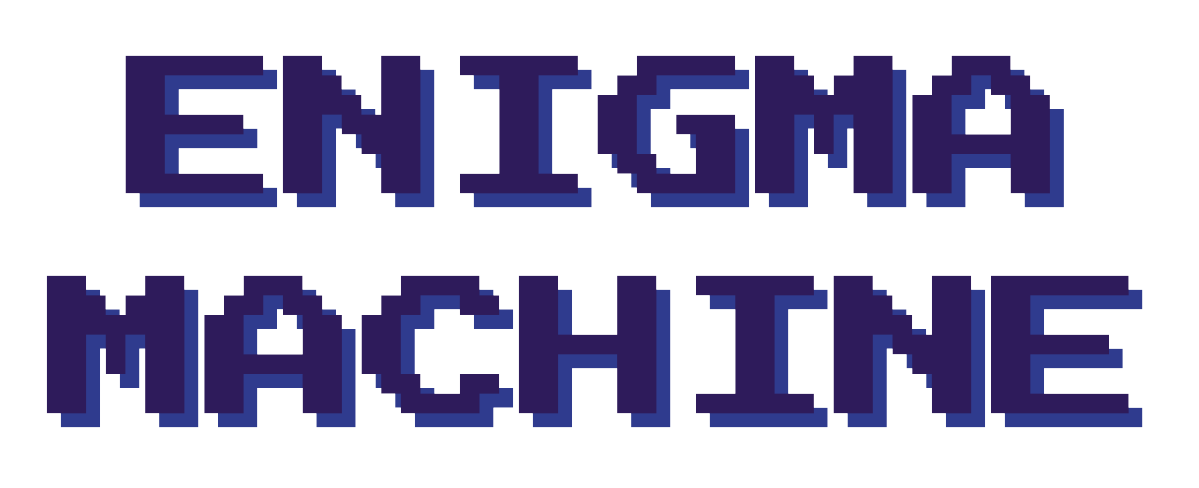
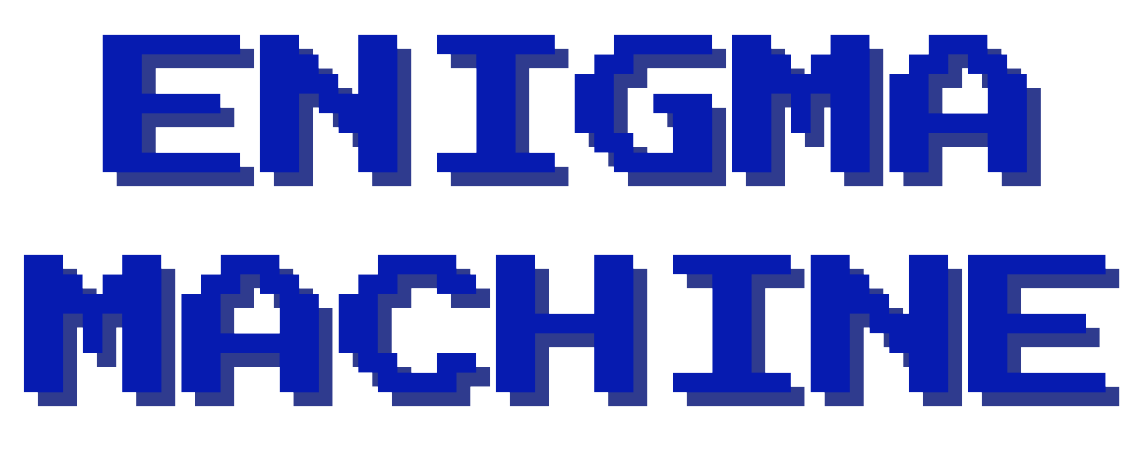
with keyboard

diff --git a/TRYINGSMT/MainWindow.xaml b/TRYINGSMT/MainWindow.xaml
@@ -5,85 +5,126 @@
         xmlns:mc="http://schemas.openxmlformats.org/markup-compatibility/2006"
         xmlns:local="clr-namespace:TRYINGSMT"
         mc:Ignorable="d"
-        Title="MainWindow" Height="1000" Width="800" WindowStartupLocation="CenterScreen">
+        Title="MainWindow" Height="800" Width="1200" WindowStartupLocation="CenterScreen">
     <Window.Background>
         <ImageBrush ImageSource="/MAINbg.png"/>
     </Window.Background>
     <Grid Margin="10,10,0,0">
 
 
-        <Image Margin="62,790,396,-104" Source="/RACELanePIC.png" Stretch="Fill" RenderTransformOrigin="0.5,0.5">
-            <Image.RenderTransform>
-                <TransformGroup>
-                    <ScaleTransform/>
-                    <SkewTransform/>
-                    <RotateTransform Angle="0.138"/>
-                    <TranslateTransform/>
-                </TransformGroup>
-            </Image.RenderTransform>
-        </Image>
+        <Image Margin="751,201,-17,0" Source="/DESIGNforTODOLIST.png" Stretch="Fill"/>
 
 
-        <Image Margin="-6,199,490,592" Source="/backgroundRING.png" Stretch="Fill"/>
+        <Image Margin="321,550,567,25" Source="/backgroundRING.png" Stretch="Fill" Opacity="0.9"/>
 
 
-        <Image Margin="-6,384,490,407" Source="/backgroundRING.png" Stretch="Fill"/>
+        <Image Margin="-1,550,889,25" Source="/backgroundRING.png" Stretch="Fill" Opacity="0.9"/>
 
 
-        <Image Margin="-5,565,489,224" Source="/backgroundRING.png" Stretch="Fill"/>
+        <Image Margin="321,182,567,394" Source="/backgroundRING.png" Stretch="Fill" Opacity="0.9"/>
 
 
-        <Image Margin="-6,751,489,40" Source="/backgroundRING.png" Stretch="Fill"/>
+        <Image Margin="-1,182,889,394" Source="/backgroundRING.png" Stretch="Fill" Opacity="0.9"/>
 
 
-        <Rectangle HorizontalAlignment="Left" Width="10" Height="10" Margin="790,317,0,0" Stroke="Black" VerticalAlignment="Top" Opacity="0"/>
-        <Label Content="Control" HorizontalAlignment="Left" Margin="107,228,0,0" VerticalAlignment="Top" FontFamily="DePixel" FontSize="10"/>
-        <Label Content="Ring 1 (S)" HorizontalAlignment="Left" Margin="104,412,0,0" VerticalAlignment="Top" FontFamily="DePixel" FontSize="10"/>
-        <Label Content="Ring 2 (M)" HorizontalAlignment="Left" Margin="109,590,0,0" VerticalAlignment="Top" FontFamily="DePixel" FontSize="10"/>
-        <Label Content="Ring 3 (H)" HorizontalAlignment="Left" Margin="109,777,0,0" VerticalAlignment="Top" FontFamily="DePixel" FontSize="10"/>
-        <Label x:Name="lblControlRing" Content="Label" HorizontalAlignment="Left" Margin="5,249,0,0" VerticalAlignment="Top" Width="268" FontFamily="DePixel Breit"/>
-        <Label x:Name="lblRing1" Content="Label" HorizontalAlignment="Left" Margin="11,437,0,0" VerticalAlignment="Top" FontFamily="DePixel Breit"/>
-        <Label x:Name="lblRing2" Content="Label" HorizontalAlignment="Left" Margin="11,621,0,0" VerticalAlignment="Top" RenderTransformOrigin="0.447,0.425" FontFamily="DePixel Breit"/>
-        <Label x:Name="lblRing3" Content="Label" HorizontalAlignment="Left" Margin="15,797,0,0" VerticalAlignment="Top" FontFamily="DePixel Breit"/>
+        <Image Margin="0,365,889,211" Source="/backgroundRING.png" Stretch="Fill" Opacity="0.9"/>
+
+
+        <Image Margin="322,365,567,211" Source="/backgroundRING.png" Stretch="Fill" Opacity="0.9"/>
+
+
+        <Rectangle HorizontalAlignment="Left" Width="10" Height="10" Margin="774,331,0,0" Stroke="Black" VerticalAlignment="Top" Opacity="0"/>
+        <Label Content="Control" HorizontalAlignment="Left" Margin="104,209,0,0" VerticalAlignment="Top" FontFamily="DePixel" FontSize="10" Foreground="#FF00065F"/>
+        <Label Content="Ring 1 (S)" HorizontalAlignment="Left" Margin="104,391,0,0" VerticalAlignment="Top" FontFamily="DePixel" FontSize="10" Opacity="0.9" Foreground="#FF00065F"/>
+        <Label Content="Ring 2 (M)" HorizontalAlignment="Left" Margin="435,209,0,0" VerticalAlignment="Top" FontFamily="DePixel" FontSize="10" Foreground="#FF00065F"/>
+        <Label Content="Ring 3 (H)" HorizontalAlignment="Left" Margin="432,392,0,0" VerticalAlignment="Top" FontFamily="DePixel" FontSize="10" Width="104" Height="27" Opacity="0.9" Foreground="#FF00065F"/>
+        <Label x:Name="lblControlRing" Content="Label" HorizontalAlignment="Left" Margin="15,230,0,0" VerticalAlignment="Top" Width="268" FontFamily="DePixel Breit" Opacity="0.9" Foreground="#FF00065F"/>
+        <Label x:Name="lblRing1" Content="Label" HorizontalAlignment="Left" Margin="15,413,0,0" VerticalAlignment="Top" FontFamily="DePixel Breit" Opacity="0.9" Foreground="#FF00065F"/>
+        <Label x:Name="lblRing2" Content="Label" HorizontalAlignment="Left" Margin="335,230,0,0" VerticalAlignment="Top" RenderTransformOrigin="0.447,0.425" FontFamily="DePixel Breit" Opacity="0.9" Foreground="#FF00065F"/>
+        <Label x:Name="lblRing3" Content="Label" HorizontalAlignment="Left" Margin="336,411,0,0" VerticalAlignment="Top" FontFamily="DePixel Breit" Width="278" Height="125" Opacity="0.9" Foreground="#FF00065F"/>
         <TextBox x:Name="txtInput" TextChanged="txtInput_TextChanged"
-         HorizontalAlignment="Left" Margin="300,199,0,0" VerticalAlignment="Top"
-         FontFamily="Courier New" Width="446" Height="41">
+         HorizontalAlignment="Left" Margin="669,206,0,0" VerticalAlignment="Top"
+         FontFamily="Courier New" Width="464" Height="40">
             <TextBox.Background>
                 <ImageBrush ImageSource="/backgroundRING.png" TileMode="None" Stretch="None"/>
             </TextBox.Background>
         </TextBox>
-        <TextBox x:Name="txtEncrypt" Text="Encrypt" HorizontalAlignment="Left" Margin="300,280,0,0" VerticalAlignment="Top" FontFamily="Courier New" Width="446" Height="41" IsEnabled="False" Foreground="Black">
+        <TextBox x:Name="txtEncrypt" Text="Encrypt" HorizontalAlignment="Left" Margin="669,286,0,0" VerticalAlignment="Top" FontFamily="Courier New" Width="464" Height="42" IsEnabled="False" Foreground="Black">
             <TextBox.Background>
                 <ImageBrush ImageSource="/backgroundRING.png" Stretch="None"/>
             </TextBox.Background>
         </TextBox>
-        <TextBox x:Name="txtEncryptMirror" Text="Mirror" HorizontalAlignment="Left" Margin="300,359,0,0" VerticalAlignment="Top" FontFamily="Courier New" Width="446" Height="42" IsEnabled="False">
+        <TextBox x:Name="txtEncryptMirror" Text="Mirror" HorizontalAlignment="Left" Margin="669,0,0,0" VerticalAlignment="Center" FontFamily="Courier New" Width="464" Height="42" IsEnabled="False">
             <TextBox.Background>
                 <ImageBrush ImageSource="/backgroundRING.png" Stretch="None"/>
             </TextBox.Background>
         </TextBox>
-        <Button x:Name="btnRotor"  Content="Rotor On" HorizontalAlignment="Left" Margin="4,171,0,0" VerticalAlignment="Top" Click="btnRotor_Click" FontFamily="DePixel" Width="49" FontSize="7" Height="20"/>
-        <TextBox x:Name="txtBRing1Init" HorizontalAlignment="Left" Margin="74,173,0,0" TextWrapping="Wrap" Text="0 - 25" VerticalAlignment="Top" Width="56" Height="18" GotFocus="txtBRing1Init_GotFocus" HorizontalContentAlignment="Center" RenderTransformOrigin="-0.431,0.41" FontFamily="DePixel Breit"/>
-        <TextBox x:Name="txtBRing2Init" HorizontalAlignment="Left" Margin="162,173,0,0" TextWrapping="Wrap" Text="0 - 25" VerticalAlignment="Top" Width="55" GotFocus="txtBRing2Init_GotFocus" HorizontalContentAlignment="Center" FontFamily="DePixel Breit"/>
-        <TextBox x:Name="txtBRing3Init" HorizontalAlignment="Left" Margin="238,173,0,0" TextWrapping="Wrap" Text="0 -25" VerticalAlignment="Top" Width="49" Height="18" GotFocus="txtBRing3Init_GotFocus" HorizontalContentAlignment="Center" FontFamily="DePixel Breit"/>
-        <Label Content="H" HorizontalAlignment="Left" Margin="58,165,0,0" VerticalAlignment="Top" FontFamily="DePixel"/>
-        <Label Content="M" HorizontalAlignment="Left" Margin="136,165,0,0" VerticalAlignment="Top" FontFamily="DePixel"/>
-        <Label Content="S" HorizontalAlignment="Left" Margin="222,165,0,0" VerticalAlignment="Top" FontFamily="DePixel"/>
+        <Button x:Name="btnRotor"  Content="Rotor On" HorizontalAlignment="Left" Margin="346,591,0,0" VerticalAlignment="Top" Click="btnRotor_Click" FontFamily="DePixel" Width="184" Height="45" RenderTransformOrigin="0.531,1.019" Foreground="#FF00065F"/>
+        <TextBox x:Name="txtBRing1Init" HorizontalAlignment="Left" Margin="357,663,0,0" TextWrapping="Wrap" Text="0 - 25" VerticalAlignment="Top" Width="56" Height="24" GotFocus="txtBRing1Init_GotFocus" HorizontalContentAlignment="Center" RenderTransformOrigin="-0.431,0.41" FontFamily="DePixel Breit" Foreground="#FF00065F"/>
+        <TextBox x:Name="txtBRing2Init" HorizontalAlignment="Left" Margin="452,663,0,0" TextWrapping="Wrap" Text="0 - 25" VerticalAlignment="Top" Width="55" GotFocus="txtBRing2Init_GotFocus" HorizontalContentAlignment="Center" FontFamily="DePixel Breit" Foreground="#FF00065F"/>
+        <TextBox x:Name="txtBRing3Init" HorizontalAlignment="Left" Margin="545,663,0,0" TextWrapping="Wrap" Text="0 -25" VerticalAlignment="Top" Width="50" Height="24" GotFocus="txtBRing3Init_GotFocus" HorizontalContentAlignment="Center" FontFamily="DePixel Breit" Foreground="#FF00065F"/>
+        <Label Content="H" HorizontalAlignment="Left" Margin="336,659,0,0" VerticalAlignment="Top" FontFamily="DePixel" RenderTransformOrigin="2.138,0.767" Foreground="#FF00065F"/>
+        <Label Content="M" HorizontalAlignment="Left" Margin="426,659,0,0" VerticalAlignment="Top" FontFamily="DePixel" Foreground="#FF00065F"/>
+        <Label Content="S" HorizontalAlignment="Left" Margin="525,659,0,0" VerticalAlignment="Top" FontFamily="DePixel" Foreground="#FF00065F"/>
 
-        <Label Content="Input Message:" HorizontalAlignment="Left" Margin="296,167,0,0" VerticalAlignment="Top" Width="150" Height="44" FontFamily="DePixel"/>
-        <Label Content="Encrypted Message:" HorizontalAlignment="Left" Margin="296,248,0,0" VerticalAlignment="Top" Width="192" Height="46" FontFamily="DePixel"/>
-        <Label Content="Encrypted Message with Mirroring:" HorizontalAlignment="Left" Margin="296,331,0,0" VerticalAlignment="Top" Width="345" Height="44" FontFamily="DePixel"/>
-        <Label Content="Plugboard (AB CD EF):" HorizontalAlignment="Left" Margin="296,416,0,0" VerticalAlignment="Top" Width="158" Height="45" FontFamily="DePixel" FontSize="10"/>
-        <TextBox x:Name="txtPlugboard" HorizontalAlignment="Left" Margin="449,417,0,0" TextWrapping="Wrap" Text="" VerticalAlignment="Top" Width="208" TextChanged="txtPlugboard_TextChanged" Height="31">
+        <Label Content="Input Message:" HorizontalAlignment="Left" Margin="665,174,0,0" VerticalAlignment="Top" Width="156" Height="44" FontFamily="DePixel" Foreground="#FF00065F"/>
+        <Label Content="Encrypted Message:" HorizontalAlignment="Left" Margin="665,254,0,0" VerticalAlignment="Top" Width="200" Height="46" FontFamily="DePixel" Foreground="#FF00065F"/>
+        <Label Content="Encrypted Message with Mirroring:" HorizontalAlignment="Left" Margin="665,328,0,0" VerticalAlignment="Top" Width="358" Height="44" FontFamily="DePixel" Foreground="#FF00065F"/>
+        <Label Content="Plugboard (AB CD EF):" HorizontalAlignment="Left" Margin="669,423,0,0" VerticalAlignment="Top" Width="164" Height="45" FontFamily="DePixel" FontSize="10" Foreground="#FF00065F"/>
+        <TextBox x:Name="txtPlugboard" HorizontalAlignment="Left" Margin="825,423,0,0" TextWrapping="Wrap" Text="" VerticalAlignment="Top" Width="216" TextChanged="txtPlugboard_TextChanged" Height="32">
             <TextBox.Background>
                 <ImageBrush ImageSource="/backgroundRING.png" Stretch="None"/>
             </TextBox.Background>
         </TextBox>
-        <Button x:Name="btnSetPlugboard" Content="Set Plugboard" HorizontalAlignment="Left" Margin="662,417,0,0" VerticalAlignment="Top" Click="btnSetPlugboard_Click" Width="84" Height="31" FontFamily="DePixel" FontSize="8"/>
-        <Image Margin="182,-13,188,801" Source="/Blue Colorful 8Bit Game Presentation.png" Stretch="Fill"/>
-        <Image Margin="0,5,13,783" Source="/clouds.png" Stretch="Fill"/>
-        <Image Margin="211,527,447,334" Source="/BUNNYbongPIC.png" Stretch="Fill" Opacity="0.9"/>
-        <Image Margin="680,298,-27,513" Source="/DICEpic.png" Stretch="Fill"/>
+        <Button x:Name="btnSetPlugboard" Content="Set Plugboard" HorizontalAlignment="Left" Margin="1045,423,0,0" VerticalAlignment="Top" Click="btnSetPlugboard_Click" Width="88" Height="32" FontFamily="DePixel" FontSize="8" Foreground="#FF00065F"/>
+        <Image Margin="339,-16,325,578" Source="/Blue Colorful 8Bit Game Presentation.png" Stretch="Fill"/>
+        <Image Margin="15,10,50,578" Source="/clouds.png" Stretch="Fill" RenderTransformOrigin="0.311,0.672"/>
+        <Image Margin="1065,304,-433,469" Source="/DICEpic.png" Stretch="Fill"/>
+        <Label Content="Reflector" HorizontalAlignment="Left" Margin="98,578,0,0" VerticalAlignment="Top" FontFamily="DePixel" FontSize="10" Width="104" Height="26" Opacity="0.9" Foreground="#FF00065F"/>
+        <Image Margin="847,262,272,469" Source="/heartDESIGNtodolist.png" Stretch="Fill"/>
+        <Image Margin="808,183,310,548" Source="/heartDESIGNtodolist.png" Stretch="Fill"/>
+        <Image Margin="979,337,140,394" Source="/heartDESIGNtodolist.png" Stretch="Fill"/>
+        <Button x:Name="LetterQ" Content="Q" HorizontalAlignment="Left" Margin="669,486,0,0" VerticalAlignment="Top"  Width="40" Height="50" FontFamily="DePixel" FontSize="8"/>
+        <Button x:Name="LetterW" Content="W" HorizontalAlignment="Left" Margin="714,486,0,0" VerticalAlignment="Top"  Width="40" Height="50" FontFamily="DePixel" FontSize="8"/>
+        <Button x:Name="LetterE" Content="E" HorizontalAlignment="Left" Margin="759,486,0,0" VerticalAlignment="Top"  Width="40" Height="50" FontFamily="DePixel" FontSize="8"/>
+        <Button x:Name="LetterR" Content="R" HorizontalAlignment="Left" Margin="804,486,0,0" VerticalAlignment="Top"  Width="40" Height="50" FontFamily="DePixel" FontSize="8"/>
+        <Button x:Name="LetterT" Content="T" HorizontalAlignment="Left" Margin="849,486,0,0" VerticalAlignment="Top"  Width="40" Height="50" FontFamily="DePixel" FontSize="8"/>
+        <Button x:Name="LetterY" Content="Y" HorizontalAlignment="Left" Margin="893,486,0,0" VerticalAlignment="Top"  Width="40" Height="50" FontFamily="DePixel" FontSize="8"/>
+        <Button x:Name="LetterU" Content="U" HorizontalAlignment="Left" Margin="938,486,0,0" VerticalAlignment="Top"  Width="40" Height="50" FontFamily="DePixel" FontSize="8"/>
+        <Button x:Name="LetterI" Content="I" HorizontalAlignment="Left" Margin="983,486,0,0" VerticalAlignment="Top"  Width="40" Height="50" FontFamily="DePixel" FontSize="8"/>
+        <Button x:Name="LetterO" Content="O" HorizontalAlignment="Left" Margin="1028,486,0,0" VerticalAlignment="Top"  Width="40" Height="50" FontFamily="DePixel" FontSize="8"/>
+        <Button x:Name="LetterP" Content="P" HorizontalAlignment="Left" Margin="1073,486,0,0" VerticalAlignment="Top"  Width="40" Height="50" FontFamily="DePixel" FontSize="8"/>
+        <Button x:Name="LetterA" Content="A" HorizontalAlignment="Left" Margin="689,541,0,0" VerticalAlignment="Top"  Width="40" Height="50" FontFamily="DePixel" FontSize="8"/>
+        <Button x:Name="LetterS" Content="S" HorizontalAlignment="Left" Margin="734,541,0,0" VerticalAlignment="Top"  Width="40" Height="50" FontFamily="DePixel" FontSize="8"/>
+        <Button x:Name="LetterD" Content="D" HorizontalAlignment="Left" Margin="779,541,0,0" VerticalAlignment="Top"  Width="40" Height="50" FontFamily="DePixel" FontSize="8"/>
+        <Button x:Name="LetterF" Content="F" HorizontalAlignment="Left" Margin="824,541,0,0" VerticalAlignment="Top"  Width="40" Height="50" FontFamily="DePixel" FontSize="8"/>
+        <Button x:Name="LetterG" Content="G" HorizontalAlignment="Left" Margin="869,541,0,0" VerticalAlignment="Top"  Width="40" Height="50" FontFamily="DePixel" FontSize="8"/>
+        <Button x:Name="LetterH" Content="H" HorizontalAlignment="Left" Margin="913,541,0,0" VerticalAlignment="Top"  Width="40" Height="50" FontFamily="DePixel" FontSize="8"/>
+        <Button x:Name="LetterJ" Content="J" HorizontalAlignment="Left" Margin="958,541,0,0" VerticalAlignment="Top"  Width="40" Height="50" FontFamily="DePixel" FontSize="8"/>
+        <Button x:Name="LetterK" Content="K" HorizontalAlignment="Left" Margin="1003,541,0,0" VerticalAlignment="Top"  Width="40" Height="50" FontFamily="DePixel" FontSize="8"/>
+        <Button x:Name="LetterL" Content="L" HorizontalAlignment="Left" Margin="1048,541,0,0" VerticalAlignment="Top"  Width="40" Height="50" FontFamily="DePixel" FontSize="8"/>
+        <Button x:Name="LetterZ" Content="Z" HorizontalAlignment="Left" Margin="703,596,0,0" VerticalAlignment="Top"  Width="40" Height="50" FontFamily="DePixel" FontSize="8"/>
+        <Button x:Name="LetterX" Content="X" HorizontalAlignment="Left" Margin="748,596,0,0" VerticalAlignment="Top"  Width="40" Height="50" FontFamily="DePixel" FontSize="8"/>
+        <Button x:Name="LetterC" Content="C" HorizontalAlignment="Left" Margin="793,596,0,0" VerticalAlignment="Top"  Width="40" Height="50" FontFamily="DePixel" FontSize="8"/>
+        <Button x:Name="LetterV" Content="V" HorizontalAlignment="Left" Margin="838,596,0,0" VerticalAlignment="Top"  Width="40" Height="50" FontFamily="DePixel" FontSize="8"/>
+        <Button x:Name="LetterB" Content="B" HorizontalAlignment="Left" Margin="883,596,0,0" VerticalAlignment="Top"  Width="40" Height="50" FontFamily="DePixel" FontSize="8"/>
+        <Button x:Name="LetterN" Content="N" HorizontalAlignment="Left" Margin="928,596,0,0" VerticalAlignment="Top"  Width="40" Height="50" FontFamily="DePixel" FontSize="8"/>
+        <Button x:Name="LetterM" Content="M" HorizontalAlignment="Left" Margin="973,596,0,0" VerticalAlignment="Top"  Width="40" Height="50" FontFamily="DePixel" FontSize="8"/>
+        <Button x:Name="ButtonBackspace" Content="Backspace" HorizontalAlignment="Left" Margin="1018,596,0,0" VerticalAlignment="Top"  Width="66" Height="50" FontFamily="DePixel" FontSize="8"/>
+        <Button x:Name="ButtonSpace" Content="SPACE" HorizontalAlignment="Left" Margin="723,657,0,0" VerticalAlignment="Top"  Width="327" Height="50" FontFamily="DePixel" FontSize="8"/>
+        <Image Margin="318,-9,798,697" Source="/Blue and White Y2K About Me Collage Instagram Story (1).png" Stretch="Fill" RenderTransformOrigin="0.5,0.5">
+            <Image.RenderTransform>
+                <TransformGroup>
+                    <ScaleTransform/>
+                    <SkewTransform/>
+                    <RotateTransform Angle="-18.419"/>
+                    <TranslateTransform/>
+                </TransformGroup>
+            </Image.RenderTransform>
+        </Image>
+        <Image Margin="545,591,595,116" Source="/Blue and White Y2K About Me Collage Instagram Story (2).png" Stretch="Fill"/>
+
+
 
 
     </Grid>

diff --git a/TRYINGSMT/MainWindow.xaml.cs b/TRYINGSMT/MainWindow.xaml.cs
@@ -38,7 +38,8 @@ namespace TRYINGSMT
         Dictionary<char, char> _plugboard = new Dictionary<char, char>(); // Plugboard dictionary
         private bool _plugboardSet = false; // Flag to indicate if plugboard is set
 
-        // Constructor
+       
+
         public MainWindow()
         {
             InitializeComponent();
@@ -48,6 +49,8 @@ namespace TRYINGSMT
             _rotor = false; // Initially rotor is off
             btnRotor.Content = "Rotor On"; // Set button text
             btnRotor.IsEnabled = false; // Disable rotor button until plugboard is set
+
+
         }
 
         // Display rotor wiring in UI labels
